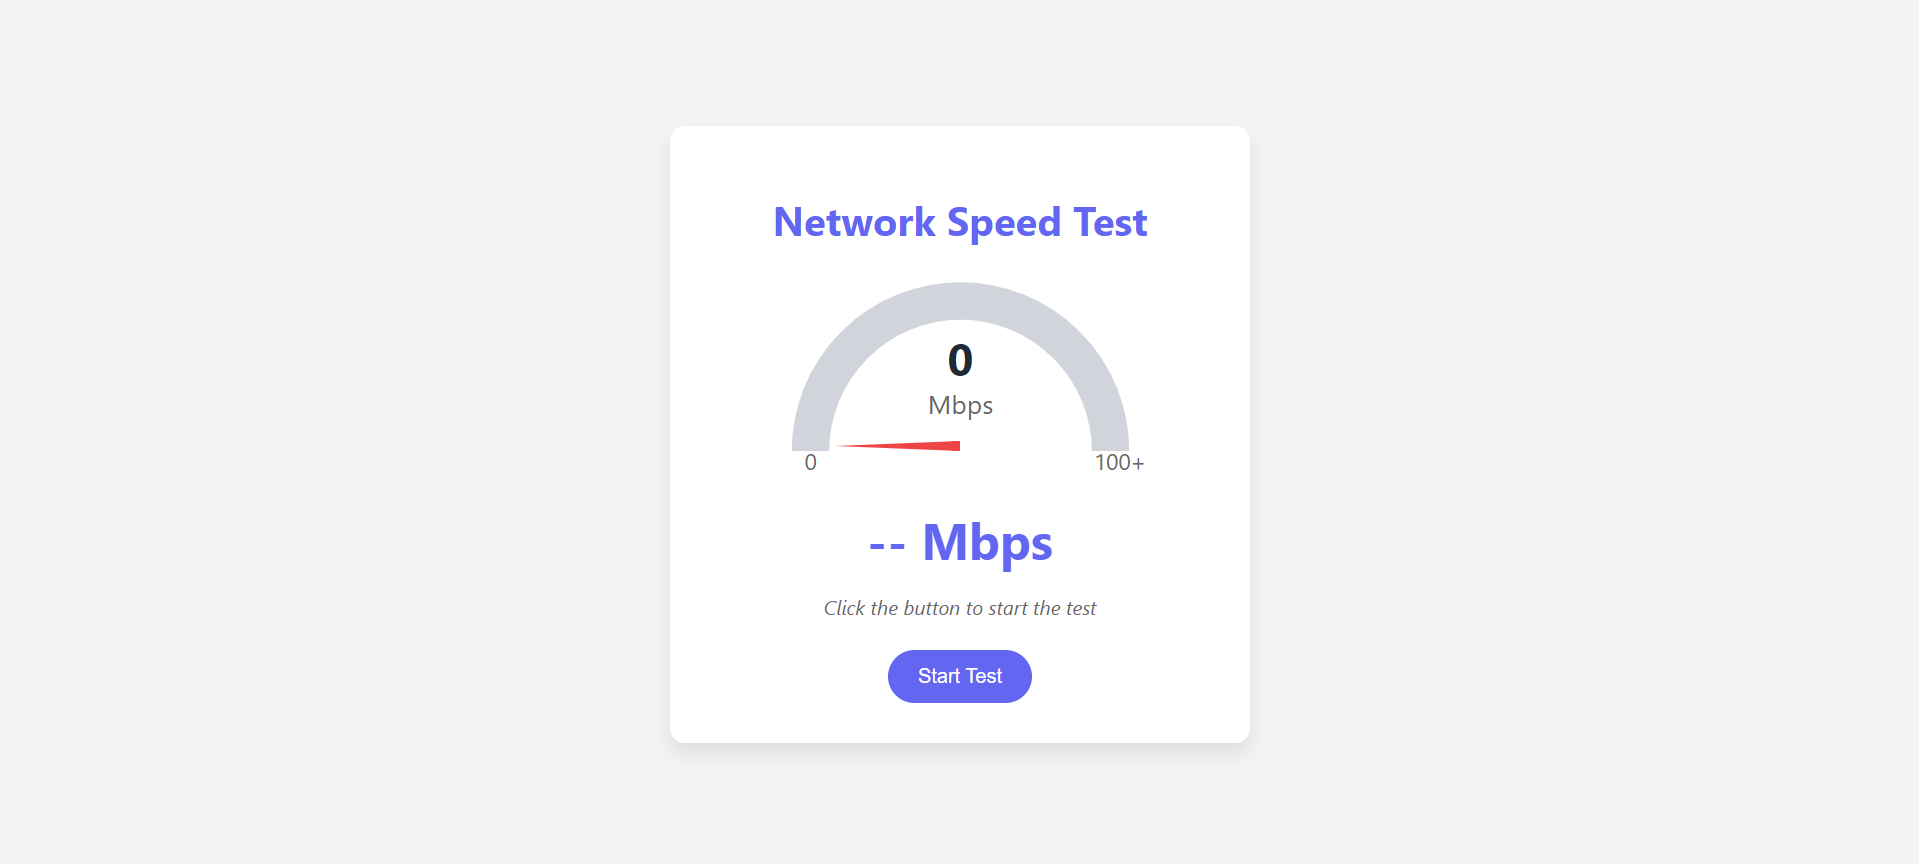
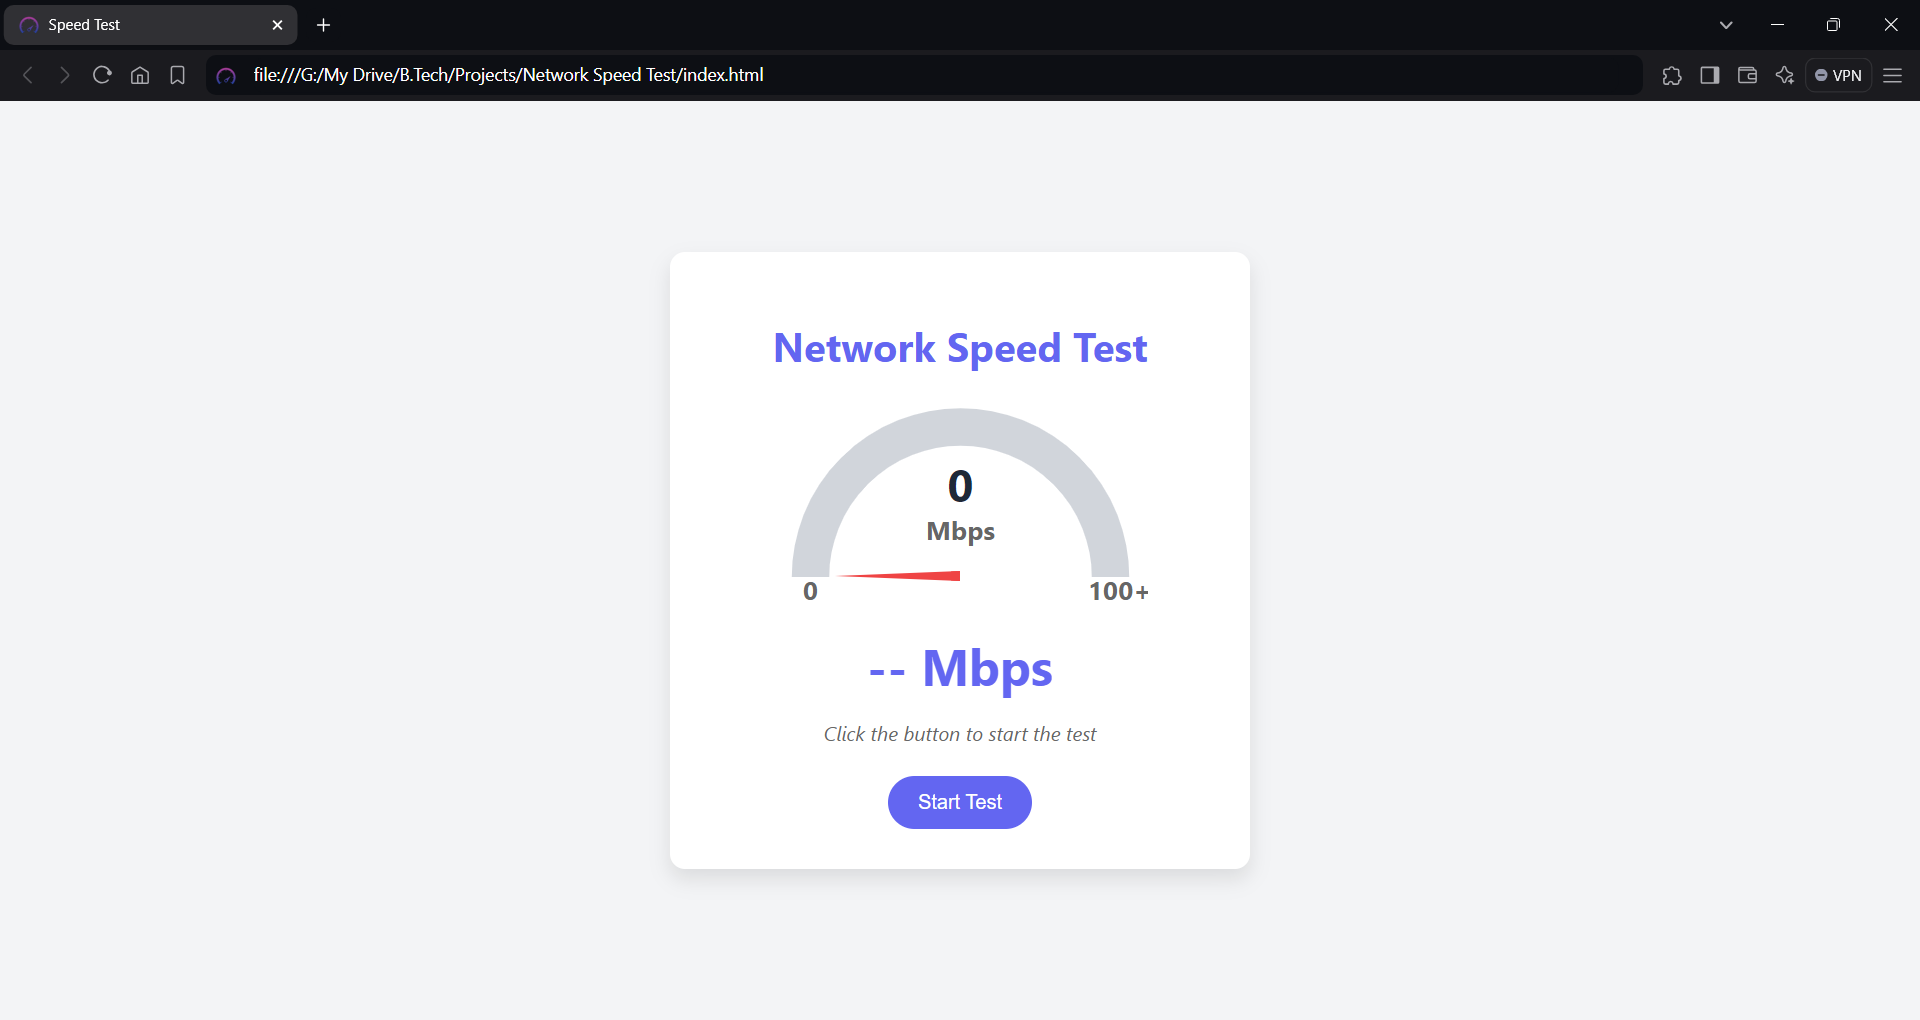
Add files via upload

diff --git a/style.css b/style.css
@@ -48,6 +48,8 @@ h1
 {
     width: 100%;
     height: 100%;
+    position: relative;
+    z-index: 2;
 }
 
 .gauge-bg
@@ -66,24 +68,18 @@ h1
     transition: stroke-dasharray 1s ease-in-out;
 }
 
-.gauge-text
+.gauge-text, .gauge-label, .gauge-value
 {
     font-size: 24px;
     font-weight: bold;
     fill: var(--text-color);
-    z-index: 0;
+    position: relative;
+    z-index: 3;
 }
 
-.gauge-label
+.gauge-label, .gauge-value
 {
     font-size: 14px;
-    fill: #666;
-    z-index: 0;
-}
-
-.gauge-value
-{
-    font-size: 12px;
     fill: #666;
 }
 
@@ -93,11 +89,11 @@ h1
     width: 100px;
     height: 8px;
     background-color: #ef4444;
-    bottom: 20px;
+    bottom: 17px;
     left: 50%;
     transform-origin: left center;
     transform: rotate(-180deg);
-    transition: transform 1s cubic-bezier(0.25, 0.1, 0.25, 1);
+    transition: transform 1.4s cubic-bezier(0.25, 0.1, 0.25, 1);
     clip-path: polygon(0 0, 100% 50%, 0 100%);
     z-index: 1;
 }

diff --git a/script.js b/script.js
@@ -15,7 +15,7 @@ function startSpeedTest()
     speedDisplay.classList.add('pulse');
     
     const startTime = new Date().getTime();
-    const fileSize = 5 * 1024 * 1024; // 5MB file size
+    const fileSize = 10 * 1024 * 1024; // 10 MB file size
     const downloadUrl = `https://speed.cloudflare.com/__down?bytes=${fileSize}`;
 
     fetch(downloadUrl)
@@ -43,9 +43,9 @@ function updateSpeedDisplay(speed)
     speedDisplay.classList.remove('pulse');
 
     // Update color based on speed
-    if (speed < 5)
+    if (speed < 10)
         speedDisplay.style.color = '#ef4444'; // Red for slow
-    else if (speed < 20)
+    else if (speed < 25)
         speedDisplay.style.color = '#f59e0b'; // Orange for medium
     else if (speed < 75)
         speedDisplay.style.color = '#10b981'; // Green for fast

diff --git a/index.html b/index.html
@@ -21,8 +21,8 @@
                     <path class="gauge-fill" d="M20 90 A 80 80 0 0 1 180 90" />
                     <text x="100" y="50" text-anchor="middle" class="gauge-text">0</text>
                     <text x="100" y="70" text-anchor="middle" class="gauge-label">Mbps</text>
-                    <text x="20" y="100" text-anchor="middle" class="gauge-value">0</text>
-                    <text x="185" y="100" text-anchor="middle" class="gauge-value">100+</text>
+                    <text x="20" y="102" text-anchor="middle" class="gauge-value">0</text>
+                    <text x="185" y="102" text-anchor="middle" class="gauge-value">100+</text>
                 </svg>
 
                 <div id="needle"></div>
